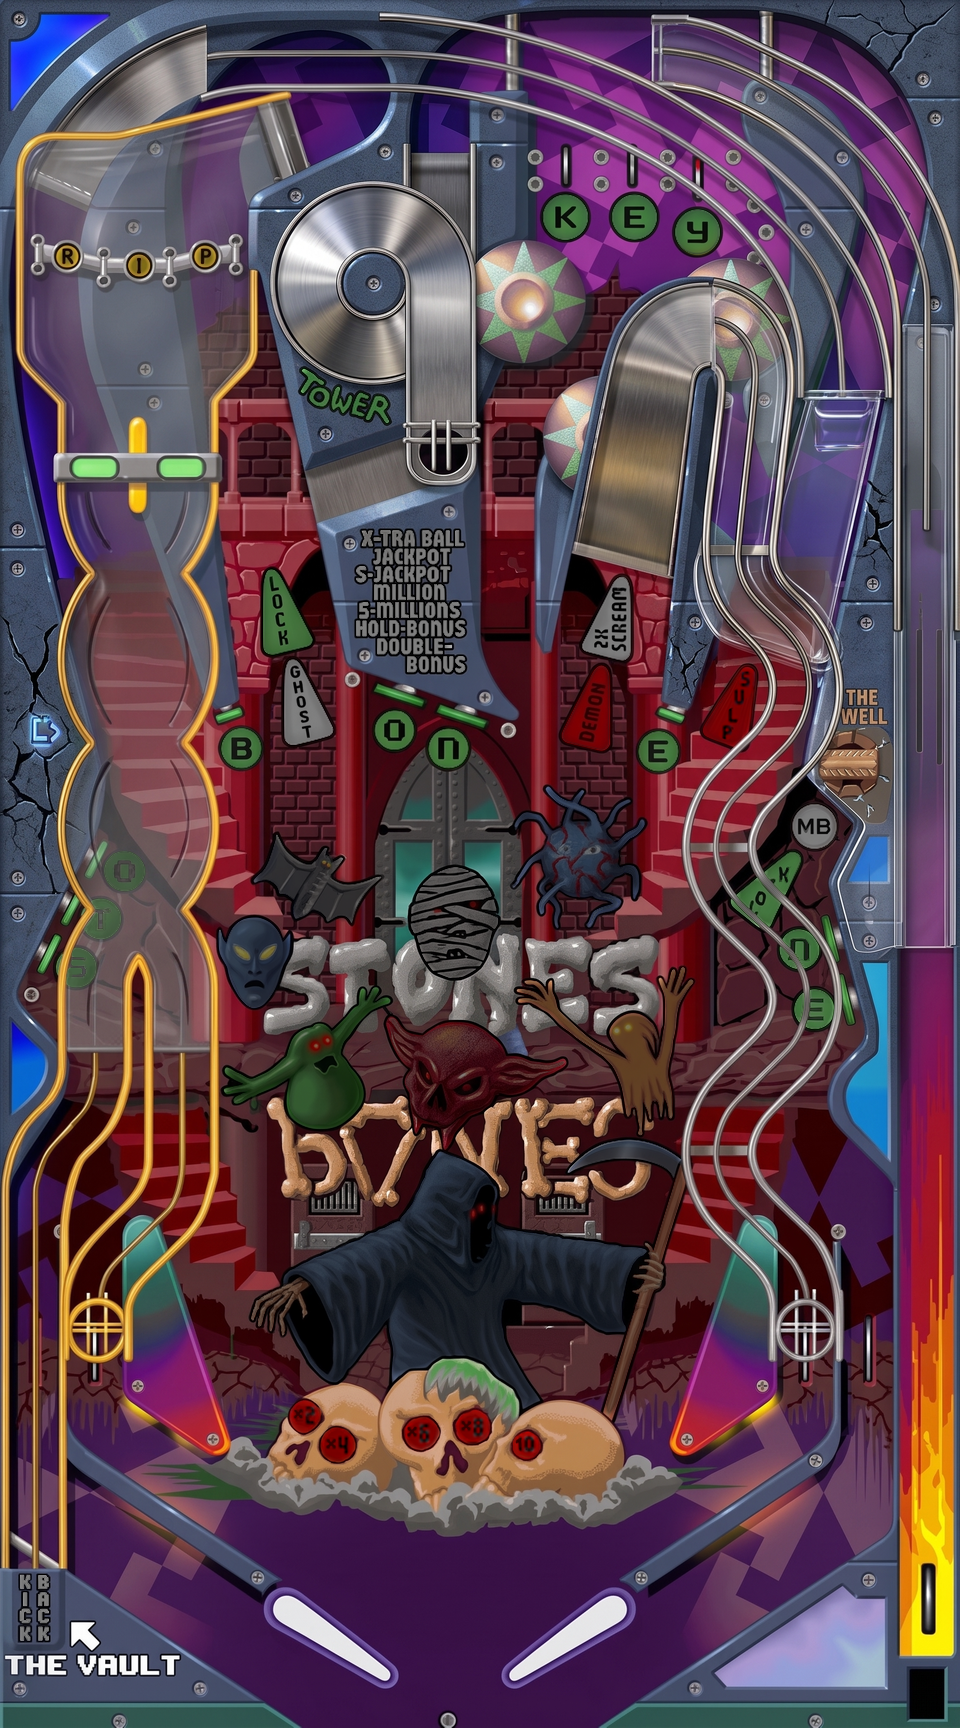
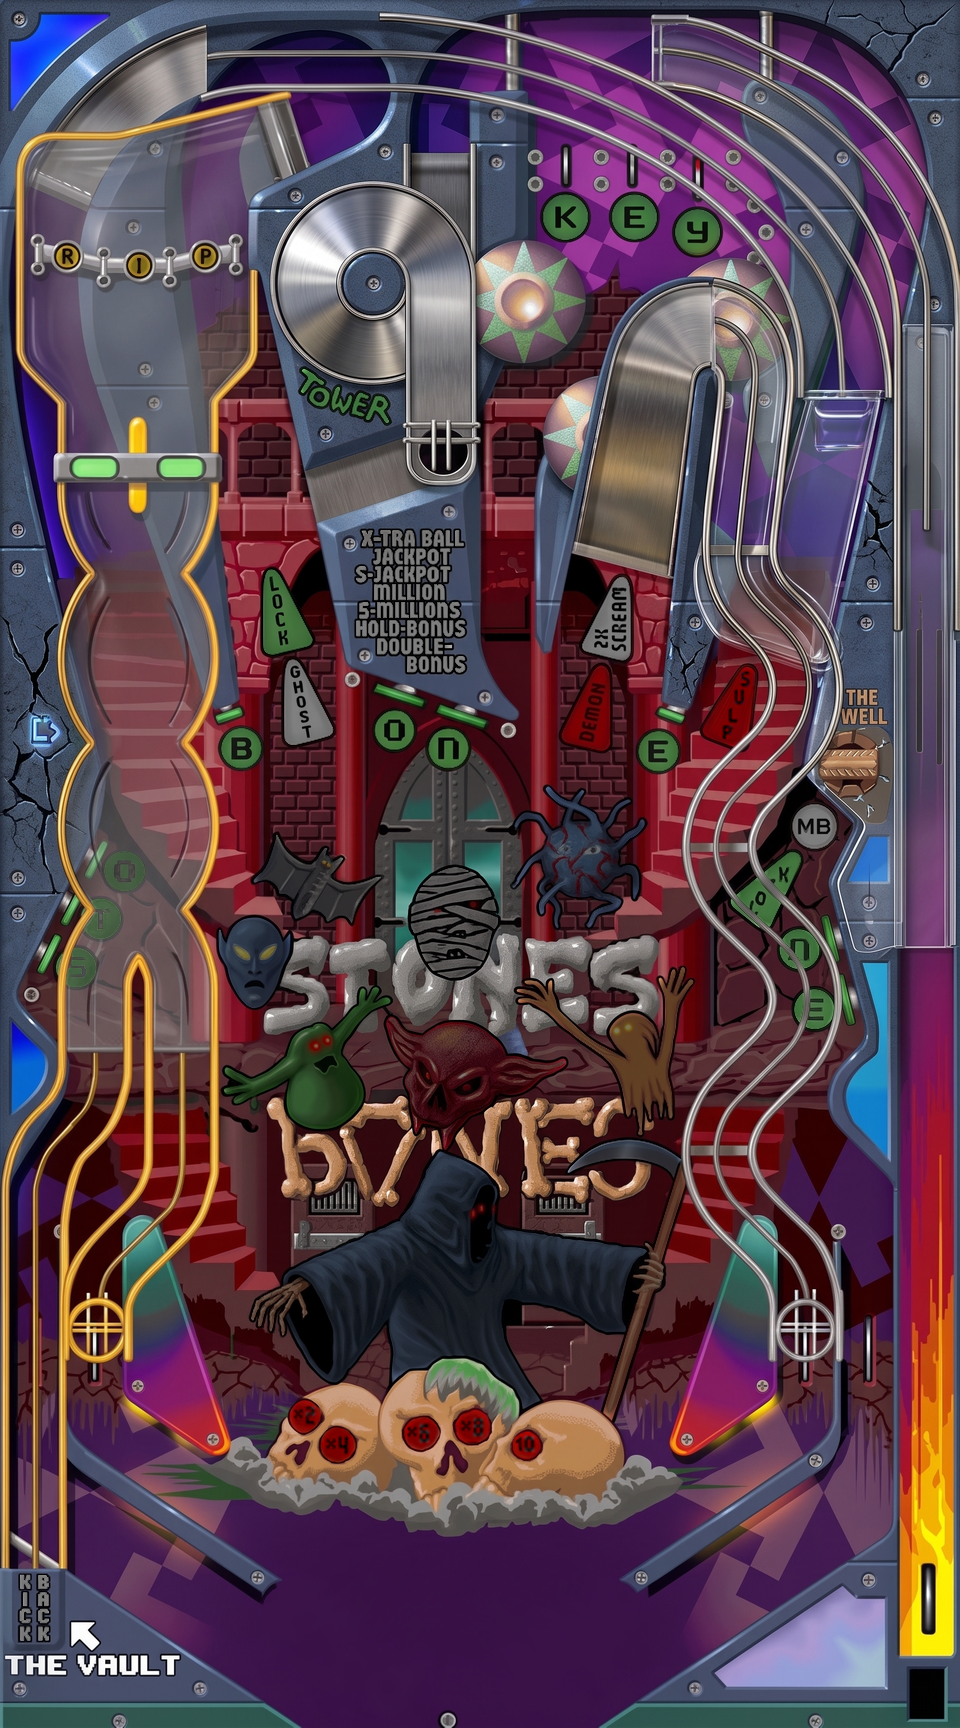
Draw the ball and the flippers from pictures of their own
A table can now carry a picture of each flipper and of the ball, drawn over the
replacement playfield: assets/hd/flipper<table>_left.png and _right.png, and ball.png
or ball<table>.png. A flipper picture is placed and turned by fractions of itself, so
any resolution works, and where a table has one for every flipper the playfield behind
them is shown as well, since nothing is painted there any more. Without them the
flippers are still cut out of the original artwork and the ball drawn from it.

The ball is drawn after the flippers, so it passes in front. How much the artwork
covers it is now a fraction rather than a yes or no: a solid ramp hides it as before,
while the dithered cover over the criss-cross rail on Stones n Bones lets it show
through at half strength instead of turning it into a chequerboard of holes.

Changed region(s): [[0.5312, 0.9062, 0.6562, 1.0], [0.2812, 0.9062, 0.4062, 1.0]]

diff --git a/src/table/Table.cpp b/src/table/Table.cpp
@@ -353,13 +353,27 @@ float Table::flipperAngle(std::size_t f) const {
   return angle;
 }
 
-std::vector<Table::FlipperPicture> Table::flipperPictures() const {
+Table::SpritePicture Table::ballPicture() const {
+  SpritePicture picture{assets_.ball.width(), assets_.ball.height(), {}};
+  picture.rgba.resize(static_cast<std::size_t>(picture.width) * picture.height * 4);
+  for (std::size_t p = 0; p < assets_.ball.raw().size(); ++p) {
+    const u8 index = assets_.ball.raw()[p];
+    const Rgb c = assets_.palette[index];
+    picture.rgba[p * 4] = c.r;
+    picture.rgba[p * 4 + 1] = c.g;
+    picture.rgba[p * 4 + 2] = c.b;
+    picture.rgba[p * 4 + 3] = index ? 255 : 0;  // index 0 is what the original leaves out
+  }
+  return picture;
+}
+
+std::vector<Table::SpritePicture> Table::flipperPictures() const {
   if (flipperArt_.empty()) buildFlipperArt();
-  std::vector<FlipperPicture> out;
+  std::vector<SpritePicture> out;
   for (std::size_t f = 0; f < assets_.flippers.size(); ++f) {
     const Flipper& fl = assets_.flippers[f];
     const FlipperArt& art = flipperArt_[f];
-    FlipperPicture picture{fl.gfx[0].width(), fl.gfx[0].height(), {}};
+    SpritePicture picture{fl.gfx[0].width(), fl.gfx[0].height(), {}};
     picture.rgba.resize(static_cast<std::size_t>(picture.width) * picture.height * 4);
     for (std::size_t p = 0; p < art.rest.size(); ++p) {
       const Rgb c = assets_.palette[fl.gfx[0].raw()[p]];
@@ -370,6 +384,12 @@ std::vector<Table::FlipperPicture> Table::flipperPictures() const {
     }
     out.push_back(std::move(picture));
   }
+  return out;
+}
+
+std::vector<FlipperSide> Table::flipperSides() const {
+  std::vector<FlipperSide> out;
+  for (const Flipper& fl : assets_.flippers) out.push_back(fl.side);
   return out;
 }
 
@@ -693,7 +713,9 @@ void Table::render(u8* data, Rgb* pal, HdFrame* hd) const {
           const FlipperArt& art = flipperArt_[f];
           for (int fx = 0; fx < gfx.width(); ++fx) {
             row[fx + fl.rectX] = art.background(fx, fy);
-            if (art.covered[static_cast<std::size_t>(fy) * gfx.width() + fx])
+            // Without a flipper picture of its own the replacement playfield still has the
+            // flipper painted into it, so the artwork behind it has to show instead.
+            if (!hd->ownSprites && art.covered[static_cast<std::size_t>(fy) * gfx.width() + fx])
               hd->map[static_cast<std::size_t>(y) * 320 + fx + fl.rectX].picture = 0;
           }
         } else {
@@ -705,27 +727,47 @@ void Table::render(u8* data, Rgb* pal, HdFrame* hd) const {
       const int ballY = sy - by;
       for (int ballX = 0; ballX < 15; ++ballX) {
         const u8 pix = assets_.ball(ballX, ballY);
-        if (pix == 0) continue;
         const int x = ballX + bx;
         if (x < 0 || x >= 320) continue;
-        if (sy < 576 && assets_.occmaps[static_cast<std::size_t>(ball_.layer)](x, sy) != 0) continue;
-        row[x] = pix;
+        const Grid8& occmap = assets_.occmaps[static_cast<std::size_t>(ball_.layer)];
+        const bool hidden = sy < 576 && occmap(x, sy) != 0;
+        // With replacement pictures the renderer draws the ball, so the frame only records how
+        // much of the artwork covers it: the share of the pixels around this one, so that a
+        // dithered cover comes out as transparency rather than a chequerboard of holes.
         if (hd) {
+          int covered = 0, counted = 0;
+          for (int oy = sy - 2; oy <= sy + 2; ++oy)
+            for (int ox = x - 2; ox <= x + 2; ++ox) {
+              if (ox < 0 || ox >= 320 || oy < 0 || oy >= 576) continue;
+              covered += occmap(ox, oy) != 0;
+              ++counted;
+            }
+          const int cover = counted ? covered * 255 / counted : 0;
           HdPixel& m = hd->map[static_cast<std::size_t>(y) * 320 + x];
-          m.picture = 0;
-          m.flags = HdPixel::kCovered;  // the ball passes in front of the flippers
+          m.flags = static_cast<u16>((m.flags & 0xff) | (cover << HdPixel::kCoverShift));
+          if (hidden) m.flags |= HdPixel::kHidesBall;
+          continue;
         }
+        if (pix == 0 || hidden) continue;
+        row[x] = pix;
       }
     }
   }
   if (hd)
-    for (std::size_t f = 0; f < assets_.flippers.size(); ++f) {
+    for (std::size_t f = 0; f < assets_.flippers.size() && f < HdSprite::kBall; ++f) {
       const Flipper& fl = assets_.flippers[f];
+      const float rectW = static_cast<float>(fl.gfx[0].width()), rectH = static_cast<float>(fl.gfx[0].height());
       hd->sprites.push_back({static_cast<u16>(f), static_cast<float>(fl.originX),
                              static_cast<float>(fl.originY - scroll_.pos - push_.offset()),
-                             static_cast<float>(fl.originX - fl.rectX), static_cast<float>(fl.originY - fl.rectY),
-                             1.0f, 1.0f, flipperAngle(f), 0.0f, static_cast<float>(height)});
+                             static_cast<float>(fl.originX - fl.rectX) / rectW,
+                             static_cast<float>(fl.originY - fl.rectY) / rectH, 1.0f / rectW, 1.0f / rectH,
+                             flipperAngle(f), 0.0f, static_cast<float>(height), 0});
     }
+  // The ball goes last, so it passes in front of the flippers.
+  if (hd && !inAttract_)
+    hd->sprites.push_back({HdSprite::kBall, static_cast<float>(bx) + 7.5f,
+                           static_cast<float>(by - scroll_.pos - push_.offset()) + 7.5f, 0.5f, 0.5f, 1.0f / 15.0f,
+                           1.0f / 15.0f, 0.0f, 0.0f, static_cast<float>(height), HdPixel::kHidesBall});
   const int fullHeight = height + 33;
   for (int y = height; y < fullHeight; ++y) std::fill(data + static_cast<std::size_t>(y) * 320, data + static_cast<std::size_t>(y + 1) * 320, 0);
   for (int y = 0; y < 16; ++y) {

diff --git a/src/game/App.cpp b/src/game/App.cpp
@@ -4,6 +4,7 @@
 
 #include <algorithm>
 #include <array>
+#include <optional>
 #include <chrono>
 
 #include "core/Error.h"
@@ -121,19 +122,20 @@ void App::setCrt(bool on) {
 /// (slide1.png ... slide5.png, left.png, table1.png ... table4.png, hiscores.png). Each file
 /// must show the whole original picture, edge to edge, at any size. The application carries
 /// its own (assets/hd); one in --hd-dir, or else in hd/ in the preferences folder, takes its place.
-void App::loadHdPictures() {
-  const std::filesystem::path source = std::filesystem::path(PFR_SOURCE_DIR) / "assets" / "hd";
-  const std::filesystem::path bundled = std::filesystem::exists(source) ? source : executableDir() / "hd";
+/// Where a replacement picture comes from: the folder given with --hd-dir or hd/ in the
+/// preferences folder first, then the application's own.
+std::filesystem::path App::hdPicturePath(const std::string& name) const {
   const std::filesystem::path own = options_.hdDir.value_or(saveDir_ / "hd");
-  int count = 0, replaced = 0;
+  if (std::filesystem::exists(own / name)) return own / name;
+  const std::filesystem::path source = std::filesystem::path(PFR_SOURCE_DIR) / "assets" / "hd";
+  return (std::filesystem::exists(source) ? source : executableDir() / "hd") / name;
+}
+
+void App::loadHdPictures() {
+  int count = 0;
   for (std::size_t i = 1; i < HdFrame::kCount; ++i) {
     const auto p = static_cast<HdPicture>(i);
-    const std::string name = std::string(hdPictureName(p)) + ".png";
-    auto path = own / name;
-    if (std::filesystem::exists(path))
-      ++replaced;
-    else
-      path = bundled / name;
+    const auto path = hdPicturePath(std::string(hdPictureName(p)) + ".png");
     if (!std::filesystem::exists(path)) continue;
     const auto image = loadImageFile(path);
     if (!image) {
@@ -143,7 +145,53 @@ void App::loadHdPictures() {
     renderer_.setHdPicture(p, image->width, image->height, image->pixels.data());
     ++count;
   }
-  if (count) log::info("replacement pictures: " + std::to_string(count) + ", " + std::to_string(replaced) + " of them from " + own.string());
+  if (count) log::info("replacement pictures: " + std::to_string(count));
+}
+
+/// The flippers drawn at any angle: a picture of each on its own, if there is one, and
+/// otherwise the flipper cut out of the original artwork.
+void App::loadFlipperPictures(int table) {
+  renderer_.clearSpritePictures();
+  const auto cutOut = table_->flipperPictures();
+  const auto sides = table_->flipperSides();
+  ownFlipperPictures_ = !cutOut.empty();
+  std::array<int, 2> seen{};
+  for (std::size_t f = 0; f < cutOut.size(); ++f) {
+    const bool left = sides[f] == FlipperSide::Left;
+    const int nth = ++seen[left ? 0 : 1];
+    const std::string name = "flipper" + std::to_string(table + 1) + (left ? "_left" : "_right") +
+                             (nth > 1 ? std::to_string(nth) : "") + ".png";
+    const auto path = hdPicturePath(name);
+    std::optional<RgbaImage> picture;
+    if (std::filesystem::exists(path)) {
+      picture = loadImageFile(path);
+      if (!picture) log::error("cannot read " + path.string());
+    }
+    if (picture)
+      renderer_.setSpritePicture(f, picture->width, picture->height, picture->pixels.data());
+    else {
+      renderer_.setSpritePicture(f, cutOut[f].width, cutOut[f].height, cutOut[f].rgba.data());
+      ownFlipperPictures_ = false;
+    }
+  }
+  if (ownFlipperPictures_) log::info("flipper pictures: " + std::to_string(cutOut.size()));
+
+  // The ball: its own picture if there is one, and otherwise the original's.
+  std::optional<RgbaImage> ball;
+  for (const std::string& name : {"ball" + std::to_string(table + 1) + ".png", std::string("ball.png")}) {
+    const auto path = hdPicturePath(name);
+    if (!std::filesystem::exists(path)) continue;
+    ball = loadImageFile(path);
+    if (!ball) log::error("cannot read " + path.string());
+    break;
+  }
+  if (ball) {
+    renderer_.setSpritePicture(HdSprite::kBall, ball->width, ball->height, ball->pixels.data());
+    log::info("ball picture: " + std::to_string(ball->width) + "x" + std::to_string(ball->height));
+  } else {
+    const auto original = table_->ballPicture();
+    renderer_.setSpritePicture(HdSprite::kBall, original.width, original.height, original.rgba.data());
+  }
 }
 
 /// The replacement pictures on or off, remembered for next time.
@@ -181,10 +229,7 @@ void App::openTable(int index) {
   table_ = std::make_unique<Table>(*prg, *mod, config_, index, seed);
   resizeFrame(320, table_->screenHeight(), tablePixelAspect(table_->screenHeight()));
   audio_.setSource([p = &table_->player()](float* out, int frames) { p->render(out, frames); });
-  renderer_.clearSpritePictures();
-  const auto flippers = table_->flipperPictures();
-  for (std::size_t f = 0; f < flippers.size(); ++f)
-    renderer_.setSpritePicture(f, flippers[f].width, flippers[f].height, flippers[f].rgba.data());
+  loadFlipperPictures(index);
   log::info("opened table " + std::to_string(index + 1));
 }
 
@@ -257,6 +302,7 @@ void App::render(double now) {
   // Only when the replacements will really be drawn: the table leaves the flippers out of the
   // frame for the renderer to put back, so with them off it must draw everything itself.
   HdFrame* const hd = renderer_.hasHdPictures() && renderer_.hdEnabled() ? &hd_ : nullptr;
+  hd_.ownSprites = ownFlipperPictures_;
   if (table_)
     table_->render(frame_.data(), colors.data(), hd);
   else if (intro_)

diff --git a/src/gfx/HdLayer.h b/src/gfx/HdLayer.h
@@ -36,18 +36,26 @@ inline const char* hdPictureName(HdPicture p) {
 /// of a pixel, and the picture. The picture's bits 8 and 9 say that a screen pixel covers half
 /// a picture pixel across or down (the picture is drawn doubled in that direction).
 struct HdPixel {
-  static constexpr u16 kCovered = 1;  ///< something is drawn over the picture here (the ball)
+  static constexpr u16 kHidesBall = 1;  ///< the artwork here covers the ball (a ramp over it)
+  /// How much of the artwork covers the ball, 0 to 255, in the flags' high byte. The original
+  /// hides the ball pixel by pixel, and dithers the cover where it is meant to be seen through
+  /// (the criss-cross rail on Stones n Bones); as a fraction that reads as transparency
+  /// instead, which is what a picture of the ball at any size needs.
+  static constexpr int kCoverShift = 8;
   u16 x8 = 0, y8 = 0, picture = 0, flags = 0;
 };
 
-/// A flipper, drawn as one picture turned to its angle instead of the original's drawn steps.
+/// A flipper turned to its angle, or the ball: one picture drawn over the scene. The sprites
+/// of a frame are drawn in order, so the ball goes last and passes in front of the flippers.
 struct HdSprite {
+  static constexpr u16 kBall = 3;  ///< the picture slot the ball uses; the flippers take 0 to 2
   u16 picture = 0;                           ///< which of the frame's sprite pictures
   float pivotFrameX = 0, pivotFrameY = 0;    ///< the hinge, in screen pixels
-  float pivotSpriteX = 0, pivotSpriteY = 0;  ///< the hinge, in the picture's pixels
-  float scaleX = 1, scaleY = 1;              ///< picture pixels per screen pixel
+  float pivotSpriteX = 0, pivotSpriteY = 0;  ///< the hinge, as a fraction of the picture
+  float scaleX = 1, scaleY = 1;              ///< fractions of the picture per screen pixel
   float angle = 0;                           ///< radians away from the resting position
   float clipTop = 0, clipBottom = 0;         ///< the screen rows it may be drawn in
+  u16 hiddenBy = 0;                          ///< HdPixel flags that keep it from being drawn
 };
 
 struct HdFrame {
@@ -62,6 +70,7 @@ struct HdFrame {
   Rgb fadeColor{};
   std::vector<HdSprite> sprites;                  ///< drawn over the pictures, in order
   float spriteTint = 1.0f;                        ///< the screen's fade, applied to the sprites
+  bool ownSprites = false;                        ///< the sprites are pictures of their own, not cut from the artwork
 
   void reset(int w, int h) {
     width = w;

diff --git a/src/gfx/Renderer.cpp b/src/gfx/Renderer.cpp
@@ -114,13 +114,12 @@ void Renderer::drawSprites(const HdFrame& hd) {
   for (const HdSprite& s : hd.sprites) {
     if (s.picture >= kSprites || !spriteTex_[s.picture] || !spriteSize_[s.picture][0]) continue;
     glBindTexture(GL_TEXTURE_2D, spriteTex_[s.picture]);
-    glUniform2f(spritePass_.uniform("uSpriteSize"), static_cast<float>(spriteSize_[s.picture][0]),
-                static_cast<float>(spriteSize_[s.picture][1]));
     glUniform2f(spritePass_.uniform("uPivotFrame"), s.pivotFrameX, s.pivotFrameY);
     glUniform2f(spritePass_.uniform("uPivotSprite"), s.pivotSpriteX, s.pivotSpriteY);
     glUniform2f(spritePass_.uniform("uScale"), s.scaleX, s.scaleY);
     glUniform1f(spritePass_.uniform("uAngle"), s.angle);
     glUniform2f(spritePass_.uniform("uClip"), s.clipTop, s.clipBottom);
+    glUniform1ui(spritePass_.uniform("uHiddenBy"), s.hiddenBy);
     glDrawArrays(GL_TRIANGLES, 0, 3);
   }
   glDisable(GL_BLEND);

diff --git a/src/table/Table.h b/src/table/Table.h
@@ -70,12 +70,16 @@ class Table {
   /// `hd`, if given, receives where the playfield was drawn, for a replacement picture.
   void render(u8* pixels, Rgb* palette, HdFrame* hd = nullptr) const;
 
-  struct FlipperPicture {
+  struct SpritePicture {
     int width = 0, height = 0;
     Bytes rgba;
   };
   /// The flippers cut out of the artwork, for drawing them turned to their angle.
-  std::vector<FlipperPicture> flipperPictures() const;
+  std::vector<SpritePicture> flipperPictures() const;
+  /// The ball as the original draws it, for when there is no picture of its own.
+  SpritePicture ballPicture() const;
+  /// Which side each flipper is on, in the same order.
+  std::vector<FlipperSide> flipperSides() const;
 
   int screenHeight() const;
   const Options& options() const { return options_; }

diff --git a/src/game/App.h b/src/game/App.h
@@ -50,6 +50,8 @@ class App {
   void resizeFrame(int width, int height, double pixelAspect);
   void setCrt(bool on);
   void loadHdPictures();
+  void loadFlipperPictures(int table);
+  std::filesystem::path hdPicturePath(const std::string& name) const;
   void setHd(bool on);
 
   AppOptions options_;
@@ -62,6 +64,7 @@ class App {
   Framebuffer frame_;
   Palette palette_;
   HdFrame hd_;
+  bool ownFlipperPictures_ = false;  ///< every flipper has a picture of its own
   std::unique_ptr<Intro> intro_;
   std::unique_ptr<Table> table_;
   double clock_ = 0;
